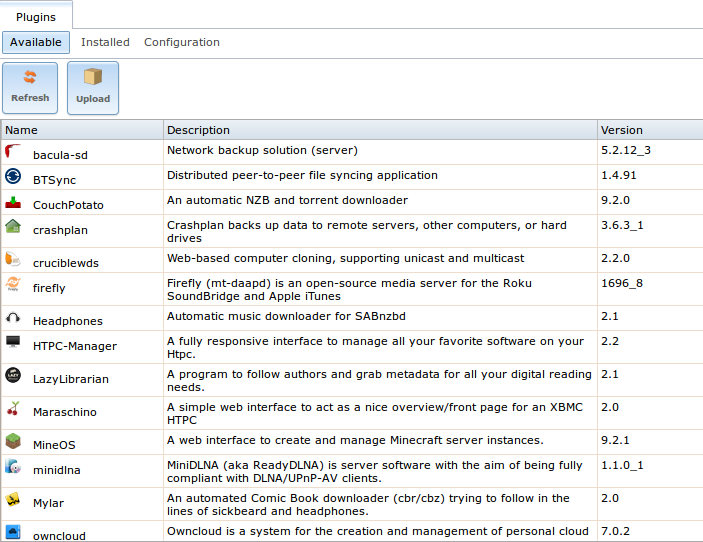
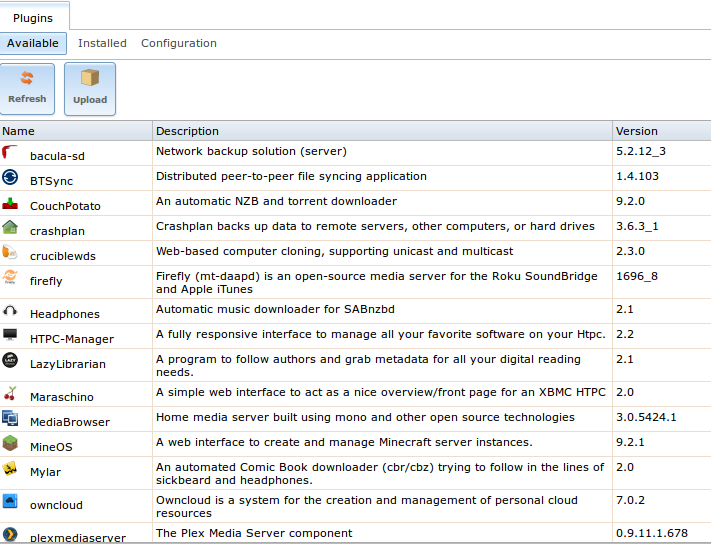
Remove minidlna from docs. Still need to update the example in section 12.2.

Changed region(s): [[0.0, 0.0, 1.0, 1.0]]

diff --git a/docs/userguide/freenas_plugins.rst b/docs/userguide/freenas_plugins.rst
@@ -5,10 +5,12 @@
 Plugins
 =======
 
-FreeNAS® 8.2.0 introduced the ability to extend the built-in NAS services by providing a mechanism for installing additional software. This mechanism was known
-as the Plugins architecture and is based on `FreeBSD jails <http://en.wikipedia.org/wiki/Freebsd_jail>`_ and `PC-BSD PBIs
-<http://wiki.pcbsd.org/index.php/AppCafe%C2%AE/9.2>`_. This allowed users to install and configure additional applications once they had created and configured
-a plugins jail.
+FreeNAS® 8.2.0 introduced the ability to extend the built-in NAS services by providing a mechanism for installing additional software. This mechanism was
+known as the Plugins architecture and is based on
+`FreeBSD jails <http://en.wikipedia.org/wiki/Freebsd_jail>`_
+and
+`PC-BSD PBIs <http://wiki.pcbsd.org/index.php/AppCafe®/9.2>`_. This allowed users to install and configure additional applications once they had created and
+configured a plugins jail.
 
 FreeNAS® 9.x simplifies this procedure by providing two methods for software installation. The Plugins method, described in this section, is meant for users
 who prefer to browse for, install, and configure available software using the GUI. This method is very easy to use, but is limited in the amount of software
@@ -43,7 +45,7 @@ To install a plugin, click "Plugins". As seen in Figure 12.1a, the list of avail
 |plugins1.png|
 
 .. |plugins1.png| image:: images/plugins1.png
-    :width: 5.9in
+    :width: 5.975in
     :height: 4.5in
 
 .. note:: if the list of available plugins is not displayed, open :ref:`Shell` and verify that the FreeNAS® system can :command:`ping` an address on the
@@ -192,8 +194,6 @@ The following plugins are available for FreeNAS® 9.3:
 * `Maraschino <http://www.maraschinoproject.com/>`_
 
 * `MineOS <http://minecraft.codeemo.com/>`_
-
-* `minidlna <https://wiki.archlinux.org/index.php/MiniDLNA>`_
 
 * `Mylar <https://github.com/evilhero/mylar>`_
 

diff --git a/docs/userguide/freenas_intro.rst b/docs/userguide/freenas_intro.rst
@@ -206,7 +206,8 @@ issued since FreeBSD 9.3 RELEASE.
 * Plugins and Jails now support DHCP configuration for IPv4 and IPv6. This should resolve most software connectivity issues when the network contains a DHCP
   server.
 
-* The cruciblewds, s3cmd, and Syncthing plugins have been added.
+* The cruciblewds, s3cmd, and Syncthing plugins have been added. The Minidlna plugin has been removed as it is not supported by the current implementation of
+  FastCGI.
 
 The GUI has been reorganized as follows:
 
